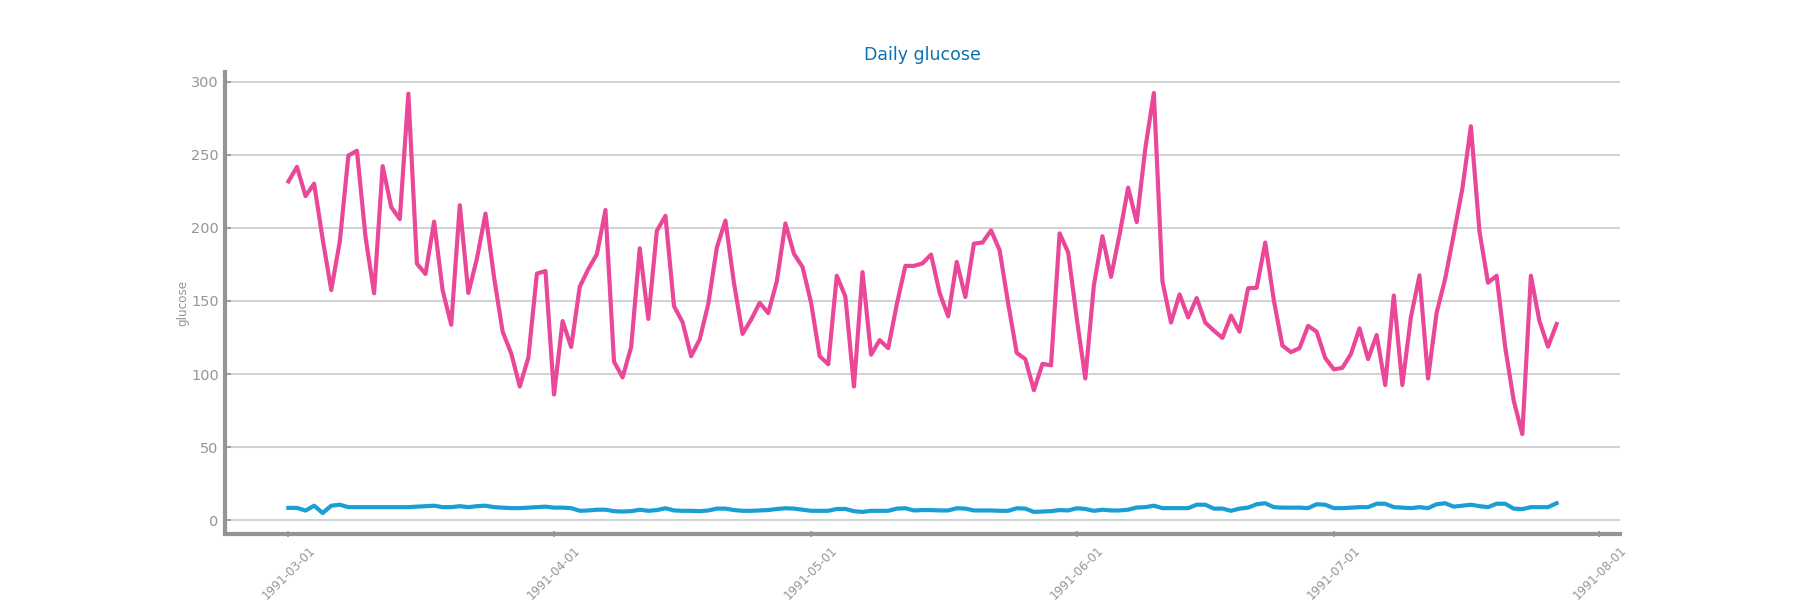
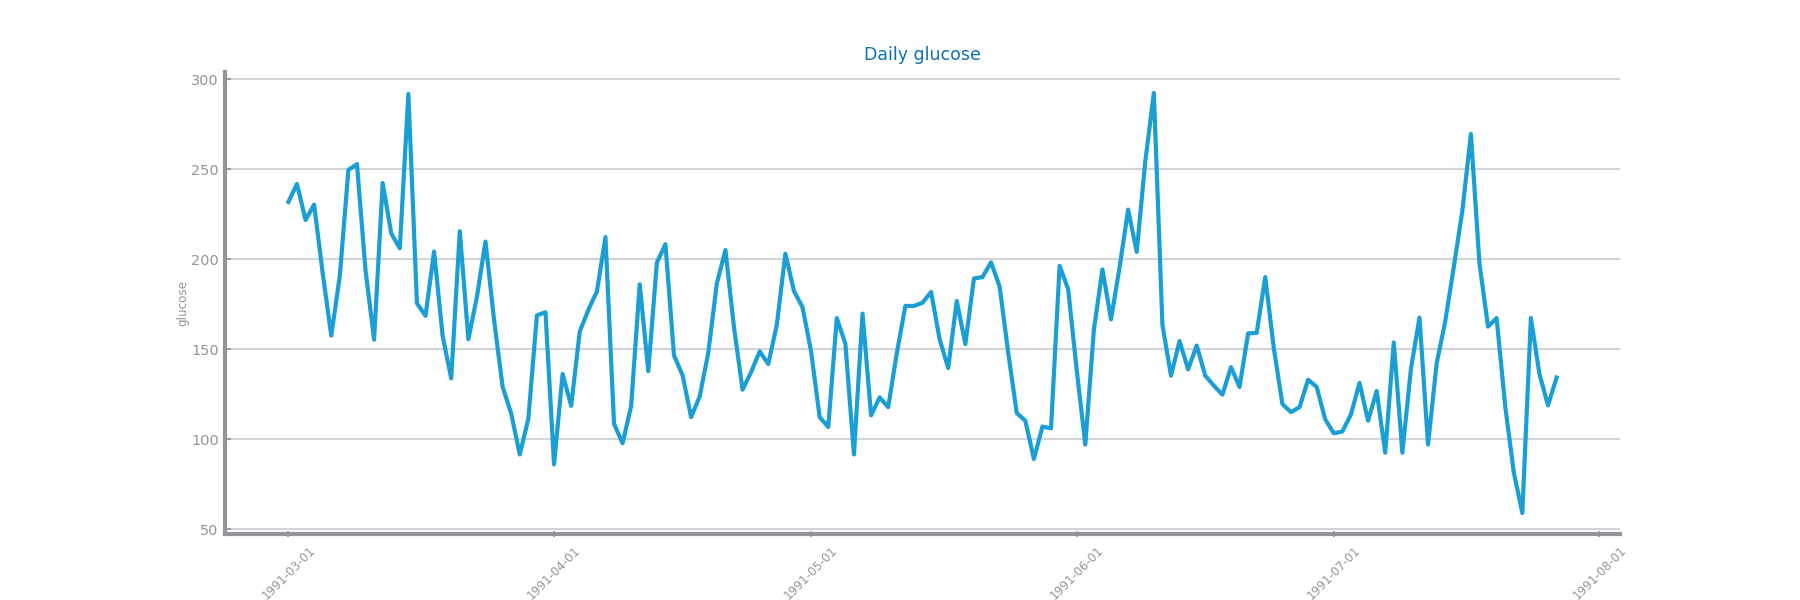
dataset smoothing and differentation

Changed region(s): [[0.0933, 0.12, 0.9022, 0.9]]

diff --git a/forecasting/data_transformation_dataset1.py b/forecasting/data_transformation_dataset1.py
@@ -22,8 +22,7 @@ def data_transofrmation_original_multivariant(data, index_col,  dataset, target)
 def smothing_win_size_10(data, dataset, target, granularity):
     WIN_SIZE = 10
     rolling = data.rolling(window=WIN_SIZE)
-    smooth_df = rolling.mean()
-    smooth_df.to_csv('data/forecasting/aggregation/'+dataset+'/smothing_10_'+granularity+'.csv', index=True)
+    smooth_df = rolling.mean()    
     figure(figsize=(3*HEIGHT, HEIGHT/2))
     plot_series(smooth_df, title=f'Smoothing (win_size={WIN_SIZE})', x_label='timestamp', y_label='glucose')
     xticks(rotation = 45)
@@ -35,7 +34,6 @@ def smothing_win_size_100(data, dataset, target, granularity):
     WIN_SIZE = 100
     rolling = data.rolling(window=WIN_SIZE)
     smooth_df = rolling.mean()
-    smooth_df.to_csv('data/forecasting/aggregation/'+dataset+'/smothing_100_'+granularity+'.csv', index=True)
     figure(figsize=(3*HEIGHT, HEIGHT/2))
     plot_series(smooth_df, title=f'Smoothing (win_size={WIN_SIZE})', x_label='timestamp', y_label='glucose')
     xticks(rotation = 45)
@@ -66,7 +64,7 @@ def aggregate_daily(data, dataset, target):
     agg_df = aggregate_by(data, 'timestamp', 'D')
     datasetAggregateDaily = agg_df[target]
     datasetAggregateDaily.to_csv('data/forecasting/aggregation/'+dataset+'/aggregate_daily.csv', index=True)
-    plot_series(agg_df, title='Daily glucose', x_label='timestamp', y_label='glucose')
+    plot_series(agg_df[target], title='Daily glucose', x_label='timestamp', y_label='glucose')
     xticks(rotation = 45)
     image_location = 'images/data_transformation/' + dataset
     savefig(image_location+'/aggregation_daily.png')
@@ -77,7 +75,7 @@ def aggregate_weekly(data, dataset, target):
     agg_df = aggregate_by(data, 'timestamp', 'W')
     datasetAggregateWeekly = agg_df[target]
     datasetAggregateWeekly.to_csv('data/forecasting/aggregation/'+dataset+'/aggregate_weekly.csv', index=True)
-    plot_series(agg_df, title='Weekly glucose', x_label='timestamp', y_label='glucose')
+    plot_series(agg_df[target], title='Weekly glucose', x_label='timestamp', y_label='glucose')
     xticks(rotation = 45)
     image_location = 'images/data_transformation/' + dataset
     savefig(image_location+'/aggregation_weekly.png')
@@ -88,15 +86,14 @@ def aggregate_monthly(data, dataset, target):
     agg_df = aggregate_by(data, 'timestamp', 'M')
     datasetAggregateMonthly = agg_df[target]
     datasetAggregateMonthly.to_csv('data/forecasting/aggregation/'+dataset+'/aggregate_monthly.csv', index=True)
-    plot_series(agg_df, title='Monthly glucose', x_label='timestamp', y_label='glucose')
+    plot_series(agg_df[target], title='Monthly glucose', x_label='timestamp', y_label='glucose')
     xticks(rotation = 45)
     image_location = 'images/data_transformation/' + dataset
     savefig(image_location+'/aggregation_monthly.png')
     #show()
 
 def differentiation(data, dataset, granularity):
-    diff_df = data.diff()
-    diff_df.to_csv('data/forecasting/aggregation/'+dataset+'/differentiation_'+granularity+'.csv', index=True)
+    diff_df = data.diff()    
     figure(figsize=(3*HEIGHT, HEIGHT))
     plot_series(diff_df, title='Differentiation', x_label='timestamp', y_label='glucose')
     xticks(rotation = 45)
@@ -109,24 +106,42 @@ def differentiation(data, dataset, granularity):
 index_col = 'Date'
 dataset = 'dataset1'
 target = 'Glucose'
-# data = read_csv('data/forecasting/glucose.csv',  index_col=index_col, sep=',', decimal='.', parse_dates=True,dayfirst=True,  infer_datetime_format=True)
+data = read_csv('data/forecasting/glucose.csv',  index_col=index_col, sep=',', decimal='.', parse_dates=True,dayfirst=True,  infer_datetime_format=True)
 
-# data_transofrmation_original(data, dataset, target)
-# data_transofrmation_original_multivariant(data, index_col,  dataset, target)
-# smothing_win_size_10(data, dataset, target, "general")
-# smothing_win_size_100(data, dataset, target, "general")
-# aggregate_hourly(data, dataset, target)
-# aggregate_daily(data, dataset, target)
-# aggregate_weekly(data, dataset, target)
-# aggregate_monthly(data, dataset, target)
-# differentiation(data, dataset, "general")
+data_transofrmation_original(data, dataset, target)
+data_transofrmation_original_multivariant(data, index_col,  dataset, target)
+smothing_win_size_10(data, dataset, target, "general")
+smothing_win_size_100(data, dataset, target, "general")
+aggregate_hourly(data, dataset, target)
+aggregate_daily(data, dataset, target)
+aggregate_weekly(data, dataset, target)
+aggregate_monthly(data, dataset, target)
+differentiation(data, dataset, "general")
+
+
+
+def smothing_win_size_10_dataset(data, dataset, target, granularity):
+    WIN_SIZE = 10
+    rolling = data.rolling(window=WIN_SIZE)
+    smooth_df = rolling.mean()
+    smooth_df.to_csv('data/forecasting/aggregation/'+dataset+'/smothing_10_'+granularity+'.csv', index=True)    
+
+def smothing_win_size_100_dataset(data, dataset, target, granularity):
+    WIN_SIZE = 100
+    rolling = data.rolling(window=WIN_SIZE)
+    smooth_df = rolling.mean()
+    smooth_df.to_csv('data/forecasting/aggregation/'+dataset+'/smothing_100_'+granularity+'.csv', index=True)
+
+def differentiation_dataset(data, dataset, granularity):
+    diff_df = data.diff()
+    diff_df.to_csv('data/forecasting/aggregation/'+dataset+'/differentiation_'+granularity+'.csv', index=True)
 
 
 index_col = 'timestamp'
 dataMostAtomic = read_csv('data/forecasting/aggregation/dataset1/aggregate_hourly.csv',  index_col=index_col, sep=',', decimal='.', parse_dates=True,dayfirst=True,  infer_datetime_format=True)
-smothing_win_size_10(dataMostAtomic, dataset, target, "hourly")
-smothing_win_size_100(dataMostAtomic, dataset, target, "hourly")
-differentiation(dataMostAtomic, dataset, "hourly")
+smothing_win_size_10_dataset(dataMostAtomic, dataset, target, "hourly")
+smothing_win_size_100_dataset(dataMostAtomic, dataset, target, "hourly")
+differentiation_dataset(dataMostAtomic, dataset, "hourly")
 
 
 

diff --git a/forecasting/data_transformation_dataset2.py b/forecasting/data_transformation_dataset2.py
@@ -27,8 +27,7 @@ def data_transofrmation_original_multivariant(data, index_col,  dataset, target)
 def smothing_win_size_10(data, dataset, target, granularity):
     WIN_SIZE = 10
     rolling = data.rolling(window=WIN_SIZE)
-    smooth_df = rolling.mean()
-    smooth_df.to_csv('data/forecasting/aggregation/'+dataset+'/smothing_10_'+granularity+'.csv', index=True)
+    smooth_df = rolling.mean()    
     figure(figsize=(3*HEIGHT, HEIGHT/2))
     plot_series(smooth_df[target], title=f'Smoothing (win_size={WIN_SIZE})', x_label='timestamp', y_label='QV2M')
     xticks(rotation = 45)
@@ -39,8 +38,7 @@ def smothing_win_size_10(data, dataset, target, granularity):
 def smothing_win_size_100(data, dataset, target, granularity):
     WIN_SIZE = 100
     rolling = data.rolling(window=WIN_SIZE)
-    smooth_df = rolling.mean()
-    smooth_df.to_csv('data/forecasting/aggregation/'+dataset+'/smothing_100_'+granularity+'.csv', index=True)
+    smooth_df = rolling.mean()    
     figure(figsize=(3*HEIGHT, HEIGHT/2))
     plot_series(smooth_df[target], title=f'Smoothing (win_size={WIN_SIZE})', x_label='timestamp', y_label='QV2M')
     xticks(rotation = 45)
@@ -100,8 +98,7 @@ def aggregate_monthly(data, dataset, target):
     #show()
 
 def differentiation(data, dataset, granularity):
-    diff_df = data.diff()
-    diff_df.to_csv('data/forecasting/aggregation/'+dataset+'/differentiation_'+granularity+'.csv', index=True)
+    diff_df = data.diff()    
     figure(figsize=(3*HEIGHT, HEIGHT))
     plot_series(diff_df[target], title='Differentiation', x_label='timestamp', y_label='QV2M')
     xticks(rotation = 45)
@@ -115,7 +112,7 @@ def differentiation(data, dataset, granularity):
 index_col = 'date'
 dataset = 'dataset2'
 target = 'QV2M'
-''' data = read_csv('data/forecasting/drought.forecasting_dataset.csv',  index_col=index_col, sep=',', decimal='.', parse_dates=True,dayfirst=True,  infer_datetime_format=True)
+data = read_csv('data/forecasting/drought.forecasting_dataset.csv',  index_col=index_col, sep=',', decimal='.', parse_dates=True,dayfirst=True,  infer_datetime_format=True)
 
 data_transofrmation_original(data, dataset, target)
 data_transofrmation_original_multivariant(data, index_col,  dataset, target)
@@ -125,14 +122,31 @@ aggregate_hourly(data, dataset, target)
 aggregate_daily(data, dataset, target)
 aggregate_weekly(data, dataset, target)
 aggregate_monthly(data, dataset, target)
-differentiation(data, dataset) '''
+differentiation(data, dataset, "general")
+
+
+def smothing_win_size_10_dataset(data, dataset, target, granularity):
+    WIN_SIZE = 10
+    rolling = data.rolling(window=WIN_SIZE)
+    smooth_df = rolling.mean()
+    smooth_df.to_csv('data/forecasting/aggregation/'+dataset+'/smothing_10_'+granularity+'.csv', index=True)    
+
+def smothing_win_size_100_dataset(data, dataset, target, granularity):
+    WIN_SIZE = 100
+    rolling = data.rolling(window=WIN_SIZE)
+    smooth_df = rolling.mean()
+    smooth_df.to_csv('data/forecasting/aggregation/'+dataset+'/smothing_100_'+granularity+'.csv', index=True)
+
+def differentiation_dataset(data, dataset, granularity):
+    diff_df = data.diff()
+    diff_df.to_csv('data/forecasting/aggregation/'+dataset+'/differentiation_'+granularity+'.csv', index=True)
 
 
 index_col = 'timestamp'
 dataMostAtomic = read_csv('data/forecasting/aggregation/dataset2/aggregate_daily.csv',  index_col=index_col, sep=',', decimal='.', parse_dates=True,dayfirst=True,  infer_datetime_format=True)
-smothing_win_size_10(dataMostAtomic, dataset, target, "daily")
-smothing_win_size_100(dataMostAtomic, dataset, target, "daily")
-differentiation(dataMostAtomic, dataset, "daily")
+smothing_win_size_10_dataset(dataMostAtomic, dataset, target, "daily")
+smothing_win_size_100_dataset(dataMostAtomic, dataset, target, "daily")
+differentiation_dataset(dataMostAtomic, dataset, "daily")
 
 
 
